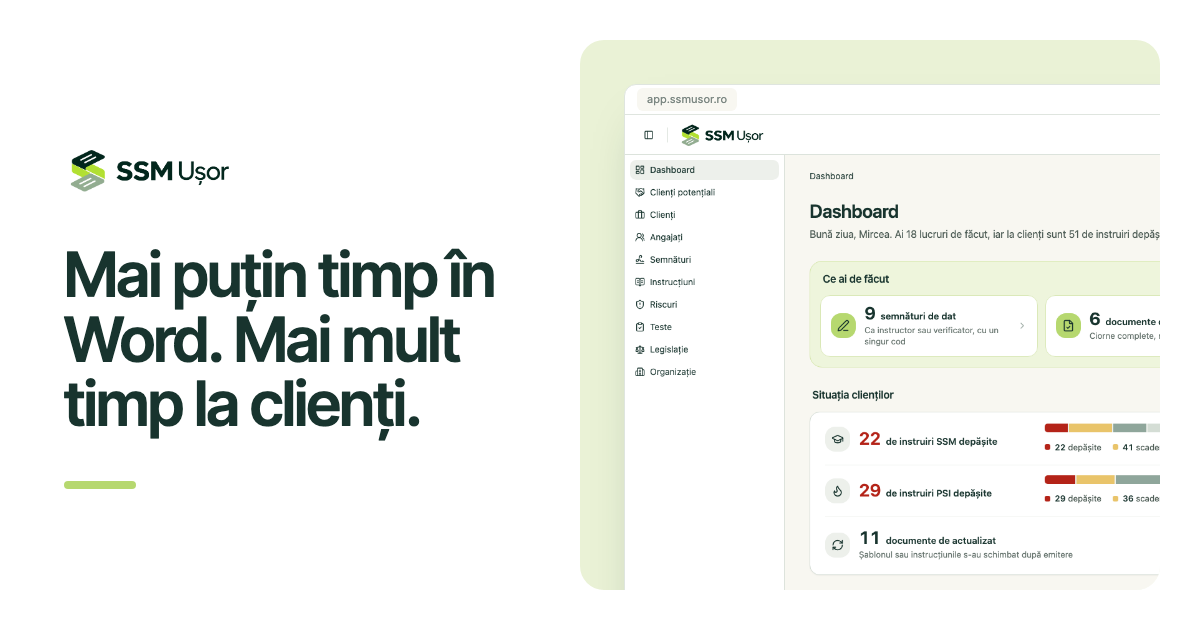
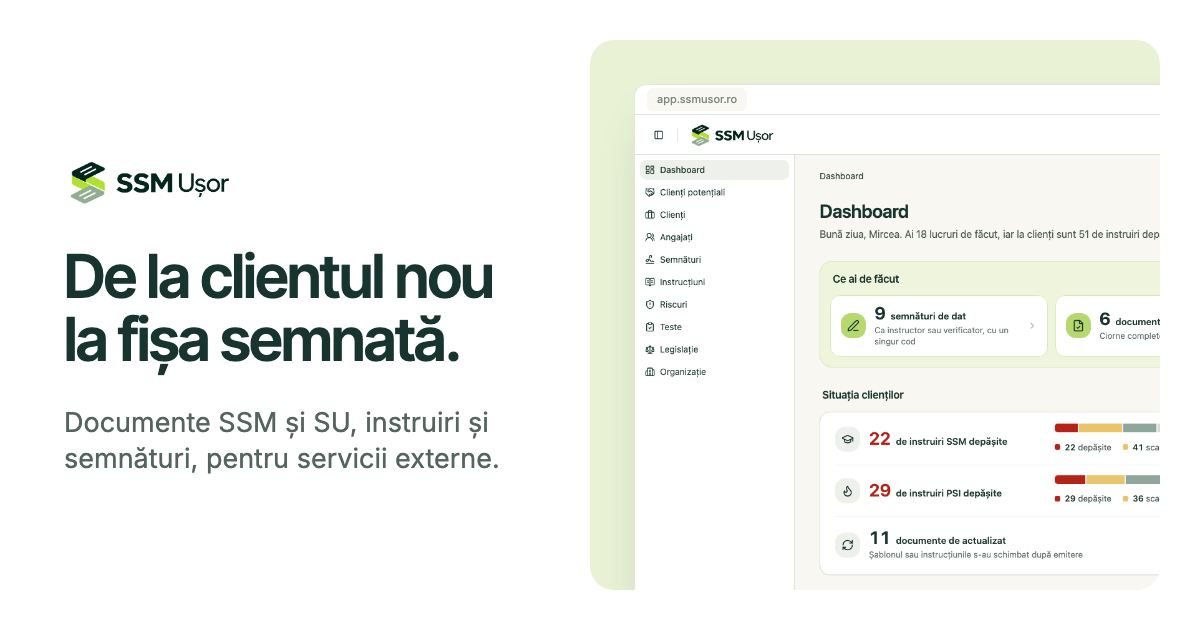
feat(marketing): lead the link preview with the client-to-signed-sheet line

diff --git a/apps/marketing/src/components/site/copy.ts b/apps/marketing/src/components/site/copy.ts
@@ -38,7 +38,7 @@ export const page = {
     'Documentele SSM și SU ale clienților, completate din datele lor. Instruiri la zi și fișe semnate de angajați pe telefon. Pentru servicii externe SSM.',
   siteName: 'SSM Ușor',
   imageAlt:
-    'Sigla SSM Ușor, titlul „Mai puțin timp în Word. Mai mult timp la clienți.” și pagina de start din aplicație',
+    'Sigla SSM Ușor, titlul „De la clientul nou la fișa semnată.” și pagina de start din aplicație',
 };
 
 export const nav = [
